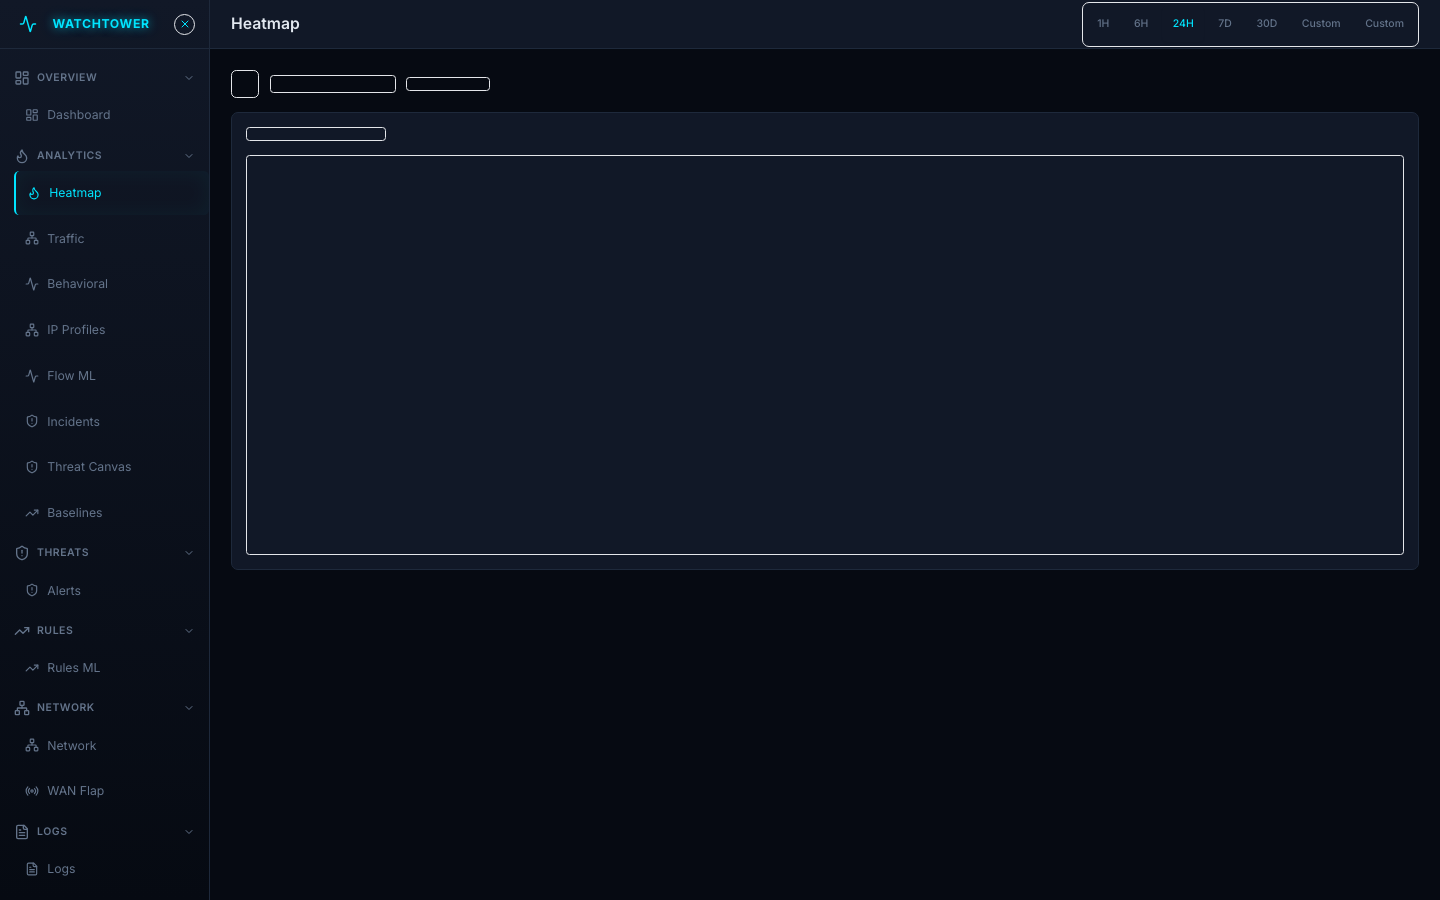
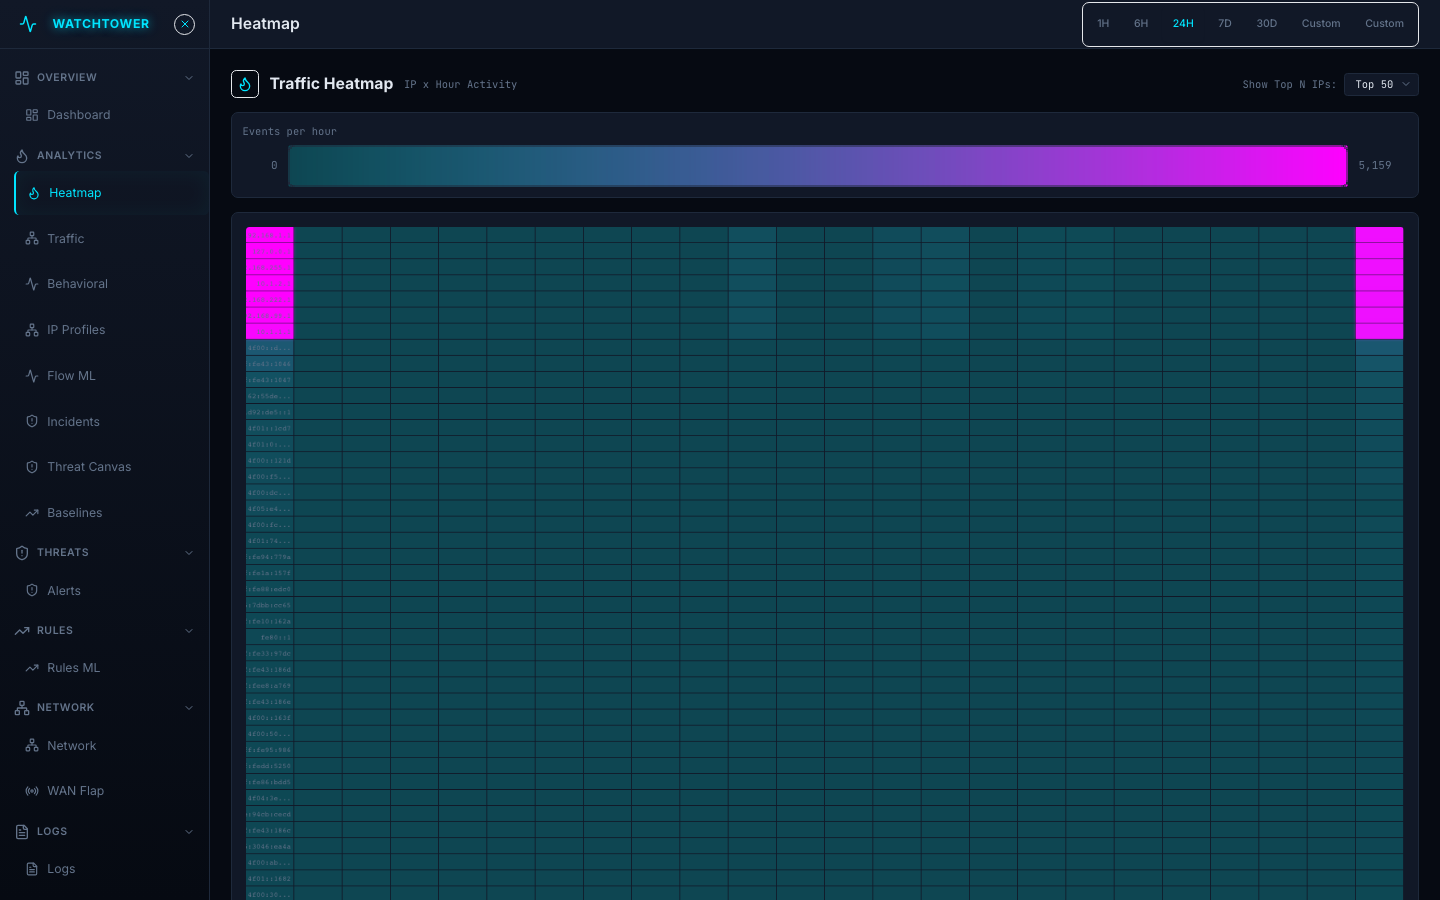
fix: replace heatmap screenshot with fully rendered version (previous was captured before grid loaded)

diff --git a/screenshots/take_screenshots.py b/screenshots/take_screenshots.py
@@ -1,0 +1,39 @@
+import asyncio
+from playwright.async_api import async_playwright
+
+async def main():
+    async with async_playwright() as p:
+        browser = await p.chromium.launch(headless=True, args=[
+            '--disable-gpu',
+            '--no-sandbox',
+            '--font-render-hinting=none',
+        ])
+        context = await browser.new_context(
+            viewport={'width': 1440, 'height': 900},
+            color_scheme='dark',
+        )
+        page = await context.new_page()
+
+        # Dashboard screenshot
+        print("Loading dashboard...")
+        await page.goto('http://192.168.1.50:8766/#/dashboard', wait_until='networkidle')
+        await page.wait_for_timeout(5000)
+        await page.screenshot(path='/Users/timolow/opnsense-anomaly-agent/screenshots/dashboard.png', full_page=True)
+        print("Dashboard screenshot saved")
+
+        # Heatmap screenshot - wait for the actual heatmap canvas to render
+        print("Loading heatmap...")
+        await page.goto('http://192.168.1.50:8766/#/heatmap', wait_until='networkidle')
+        # Wait for the heatmap canvas to exist and have actual data
+        try:
+            await page.wait_for_selector('canvas', timeout=15000)
+        except Exception:
+            print("WARNING: Heatmap canvas not found, waiting 15s anyway...")
+            await page.wait_for_timeout(15000)
+        await page.wait_for_timeout(5000)  # Extra time for grid to fully render
+        await page.screenshot(path='/Users/timolow/opnsense-anomaly-agent/screenshots/heatmap.png', full_page=True)
+        print("Heatmap screenshot saved")
+
+        await browser.close()
+
+asyncio.run(main())